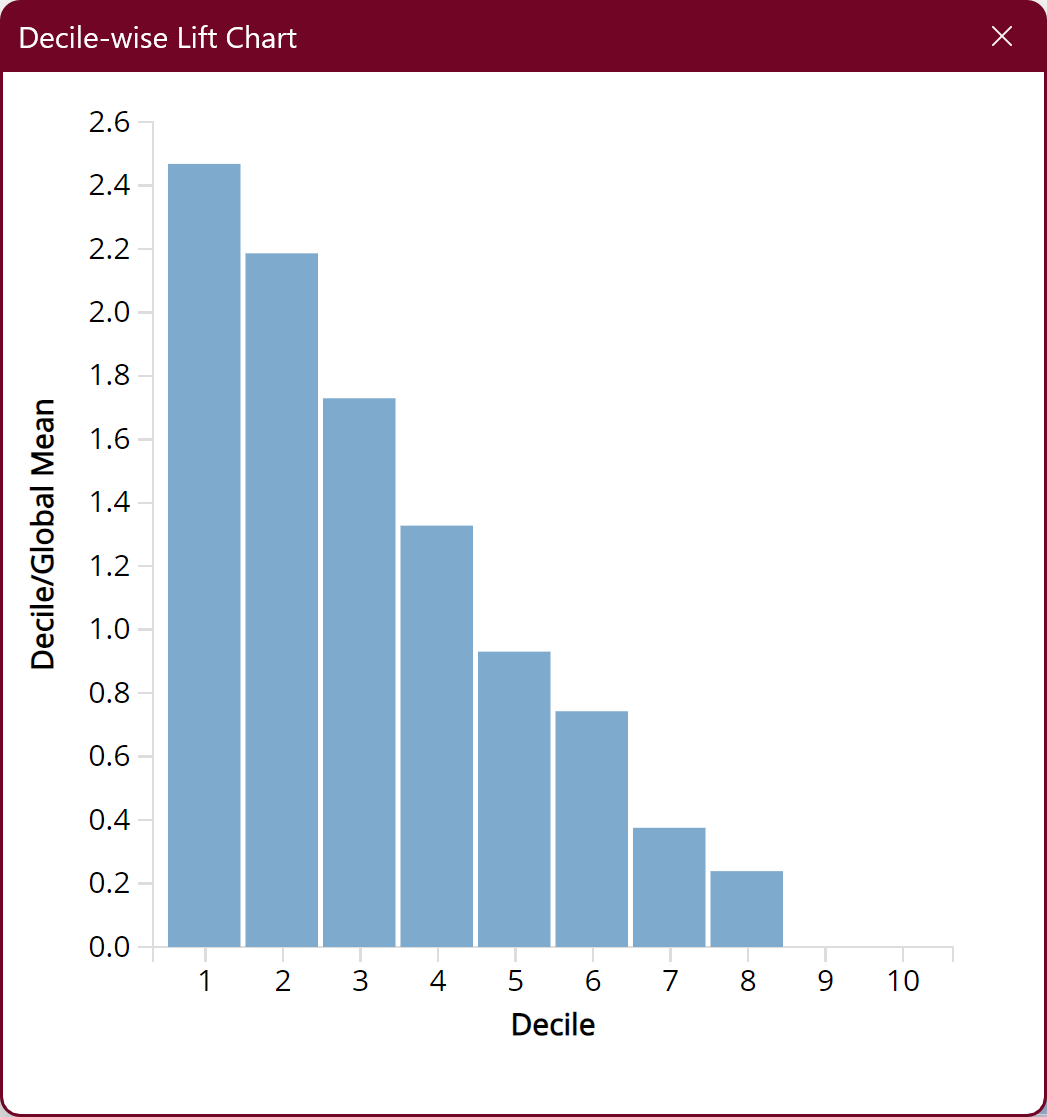
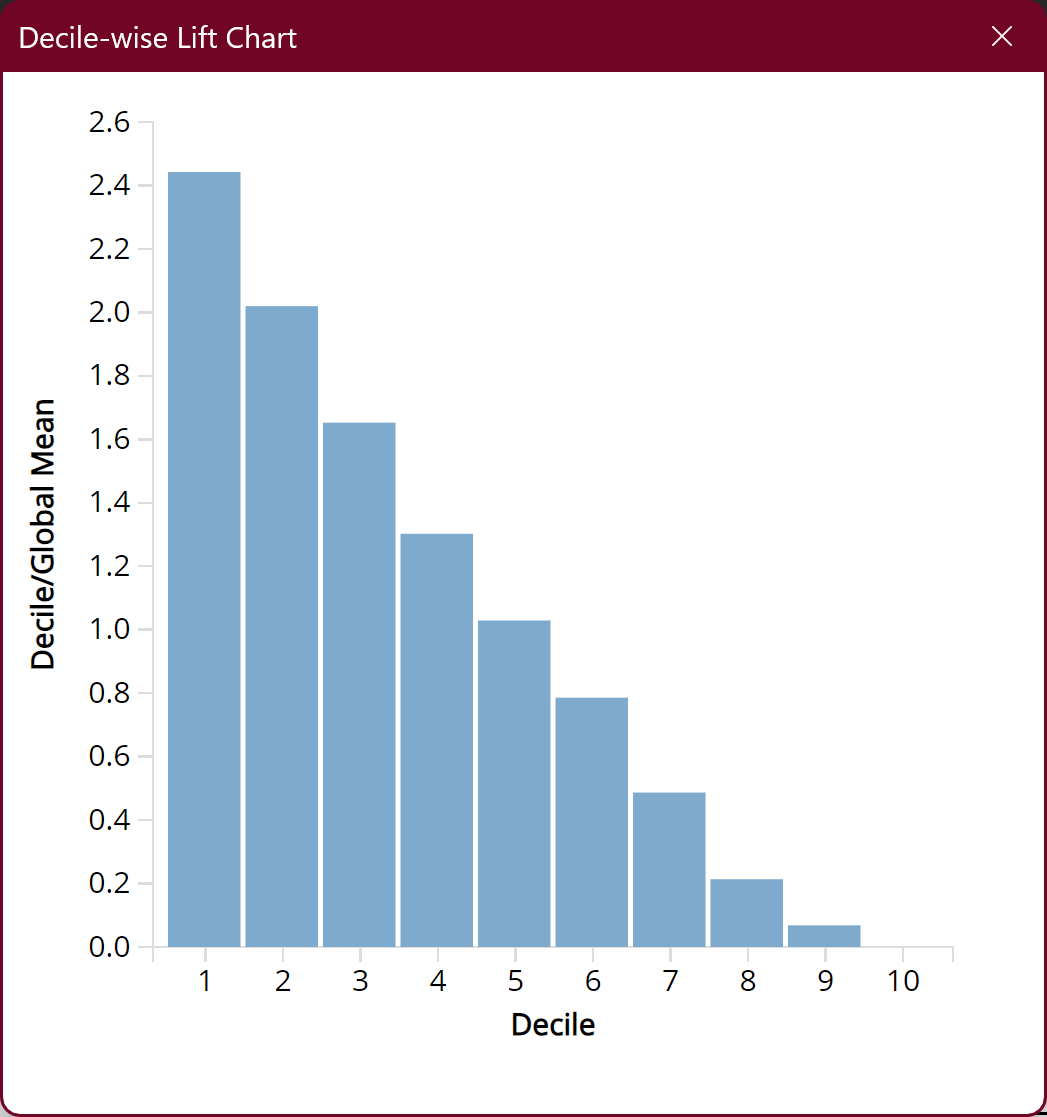
Fix model 1 statistics
Private-commit: 2705b1b3dfefe446bf2ae436be432043f0eb4b98

diff --git a/special/academia/HKUST/COMP 1942/project/phase 3/submission.md b/special/academia/HKUST/COMP 1942/project/phase 3/submission.md
@@ -477,27 +477,27 @@ Confusion matrix is as follows:
 
 | __Actual\Predicted__ | __<=50k__ | __>50k__ |
 | -------------------- | --------- | -------- |
-| __<=50k__            | 3088      | 570      |
-| __>50k__             | 551       | 1791     |
+| __<=50k__            | 3037      | 621      |
+| __>50k__             | 637       | 1705     |
 
 Error report is as follows:
 
 | __Class__   | __# Cases__ | __# Errors__ | __% Error__ |
 | ----------- | ----------- | ------------ | ----------- |
-| __<=50k__   | 3658        | 570          | 15.5822854  |
-| __>50k__    | 2342        | 551          | 23.52690009 |
-| __Overall__ | 6000        | 1121         | 18.68333333 |
+| __<=50k__   | 3658        | 621          | 16.97648989 |
+| __>50k__    | 2342        | 637          | 27.19897523 |
+| __Overall__ | 6000        | 1258         | 20.96666667 |
 
 Metrics are as follows:
 
 | __Metric__               | __Value__   |
 | ------------------------ | ----------- |
-| __Accuracy (#correct)__  | 4879        |
-| __Accuracy (%correct)__  | 81.31666667 |
-| __Specificity__          | 0.844177146 |
-| __Sensitivity (Recall)__ | 0.764730999 |
-| __Precision__            | 0.758576874 |
-| __F1 score__             | 0.761641505 |
+| __Accuracy (#correct)__  | 4742        |
+| __Accuracy (%correct)__  | 79.03333333 |
+| __Specificity__          | 0.830235101 |
+| __Sensitivity (Recall)__ | 0.728010248 |
+| __Precision__            | 0.733018057 |
+| __F1 score__             | 0.73050557  |
 | __Success Class__        | >50k        |
 | __Success Probability__  | 0.5         |
 
@@ -515,27 +515,27 @@ Confusion matrix is as follows:
 
 | __Actual\Predicted__ | __<=50k__ | __>50k__ |
 | -------------------- | --------- | -------- |
-| __<=50k__            | 1996      | 441      |
-| __>50k__             | 469       | 1094     |
+| __<=50k__            | 1963      | 474      |
+| __>50k__             | 486       | 1077     |
 
 Error report is as follows:
 
 | __Class__   | __# Cases__ | __# Errors__ | __% Error__ |
 | ----------- | ----------- | ------------ | ----------- |
-| __<=50k__   | 2437        | 441          | 18.0960197  |
-| __>50k__    | 1563        | 469          | 30.00639795 |
-| __Overall__ | 4000        | 910          | 22.75       |
+| __<=50k__   | 2437        | 474          | 19.45014362 |
+| __>50k__    | 1563        | 486          | 31.0940499  |
+| __Overall__ | 4000        | 960          | 24          |
 
 Metrics are as follows:
 
 | __Metric__               | __Value__   |
 | ------------------------ | ----------- |
-| __Accuracy (#correct)__  | 3090        |
-| __Accuracy (%correct)__  | 77.25       |
-| __Specificity__          | 0.819039803 |
-| __Sensitivity (Recall)__ | 0.69993602  |
-| __Precision__            | 0.712703583 |
-| __F1 score__             | 0.706262105 |
+| __Accuracy (#correct)__  | 3040        |
+| __Accuracy (%correct)__  | 76          |
+| __Specificity__          | 0.805498564 |
+| __Sensitivity (Recall)__ | 0.689059501 |
+| __Precision__            | 0.694390716 |
+| __F1 score__             | 0.691714836 |
 | __Success Class__        | >50k        |
 | __Success Probability__  | 0.5         |
 
@@ -610,13 +610,13 @@ First, for the model interpretation, comparing the nearest neighbors of example 
 
 Another obvious thing from example 1 is that even if all the 5 input variables are the same, the income might still be different. This might be caused by differences in other discrete variables, which are not supported by _k_-nearest neighbors.
 
-Next, for the model performance, the accuracy drops from 81.3% in the training dataset to 77.25% in the validation dataset, a 4.05% point decrease. This is a rather significant drop compared to other models, as we will see later. The validation accuracy is also significantly lower than other models.
+Next, for the model performance, the accuracy drops from 79.0% in the training dataset to 76% in the validation dataset, a 3% point decrease. This is a rather significant drop compared to other models, as we will see later. The validation accuracy is also significantly lower than other models.
 
-Specifically, we can observe both its specificity (84.4% to 81.9%) and sensitivity (76.4% to 70.0%) drops significantly. This shows _k_-nearest neighbors is inferior at predicting both `<=50k` and `>50k` for unseen data.
+Specifically, we can observe both its specificity (83.0% to 80.5%) and sensitivity (72.8% to 68.9%) drops significantly. This shows _k_-nearest neighbors is inferior at predicting both `<=50k` and `>50k` for unseen data.
 
 The above makes sense if you consider that _k_-nearest neighbors does prediction by looking at the _k_-nearest data points in the training dataset. If a data point is new, it might be very far away from any data points in the training dataset, so predicting such a data point would be inaccurate. So it makes sense that _k_-nearest neighbors is inferior at predicting new data.
 
-To conclude, for predicting the test dataset, we should probably use other better models, as the test dataset is unseen data.
+To conclude, for predicting the test dataset, we should not use this model. The accuracy on seen data is not high compared to other models, and the test dataset is unseen data, so the accuracy would be even lower.
 
 ### Model 2
 
@@ -1257,7 +1257,7 @@ The lift charts are as follows:
 
 #### Model 5: Examples
 
-In this model, we are using Neural Network with hidden layer `2` , that means we undergo backward propagation twice and check whether the trained neuron weights and bias are accurate to the target attribute `income` in training set or n
+TODO
 
 #### Model 5: Conclusion
 
